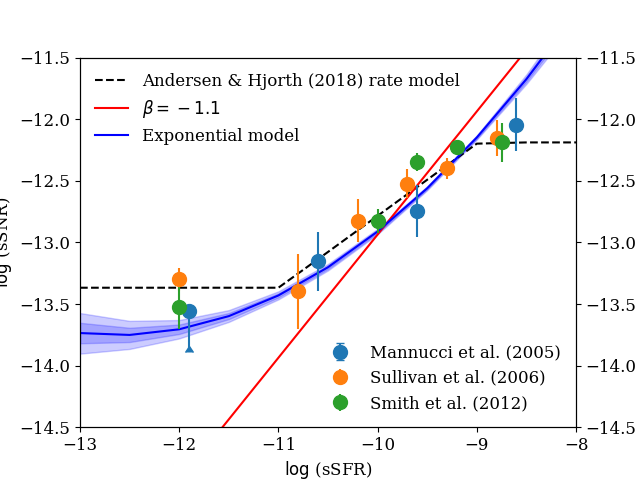
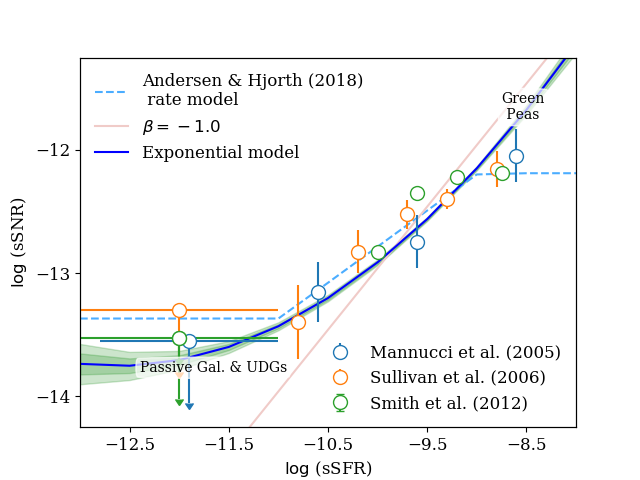
modified:   ../../sSFRvsSNR/figure_ssfr.png 	modified:   ../../sSFRvsSNR/plot_sfr_snr.py

diff --git a/sSFRvsSNR/plot_sfr_snr.py b/sSFRvsSNR/plot_sfr_snr.py
@@ -157,7 +157,8 @@ if __name__=='__main__':
     p_e = (2.20e-7, 0.084, 0.55e-11, 0.41e-9)
     pcov = diag(0.2*array(p_e)**2.)
     xx = arange(-13, -7.5, 0.5)
-    ax.plot(xx, log10(peices(10**xx, *p_n)), 'k--', label='Andersen & Hjorth (2018) rate model')
+    ax.plot(xx, log10(peices(10**xx, *p_n)), '--', color='#4BADFF',
+            label='Andersen & Hjorth (2018)\n rate model')
     ps = np.random.multivariate_normal(p_n, pcov, 10000)
     ysample = asarray([log10(peices(10**xx, *pi)) for pi in ps])
     idx = where(~isnan(ysample[:,0]))
@@ -170,19 +171,19 @@ if __name__=='__main__':
 
 
     ## t**(-1)
-    ## popt=(-4.77238208e-04,  9.90040272e-01, -3.01111121e+00)
-    ## pcov=array([[5.09893718e-08, 1.02627168e-06, 5.12290288e-06],
-    ##             [1.02627168e-06, 2.07089528e-05, 1.03610770e-04],
-    ##             [5.12290288e-06, 1.03610770e-04, 5.19460796e-04]])
+    popt=(-4.77238208e-04,  9.90040272e-01, -3.01111121e+00)
+    pcov=array([[5.09893718e-08, 1.02627168e-06, 5.12290288e-06],
+                [1.02627168e-06, 2.07089528e-05, 1.03610770e-04],
+                [5.12290288e-06, 1.03610770e-04, 5.19460796e-04]])
 
 
     ## t**(-1.1)
-    popt=( -1.94866195e-04,   9.95757343e-01,  -2.95934114e+00)
-    pcov=array([[  8.37865874e-08,   1.68638241e-06,   8.41799528e-06],
-                [  1.68638241e-06,   3.40291314e-05,   1.70253711e-04],
-                [  8.41799528e-06,   1.70253711e-04,   8.53578632e-04]])
+    ## popt=( -1.94866195e-04,   9.95757343e-01,  -2.95934114e+00)
+    ## pcov=array([[  8.37865874e-08,   1.68638241e-06,   8.41799528e-06],
+    ##             [  1.68638241e-06,   3.40291314e-05,   1.70253711e-04],
+    ##             [  8.41799528e-06,   1.70253711e-04,   8.53578632e-04]])
     perr = sqrt(diag(pcov))
-    ax.plot(xx, line_fn(xx, *popt), 'r-', label=r'$\beta=-1.1$')
+    ax.plot(xx, line_fn(xx, *popt), '-', color='#F0CBC8', label=r'$\beta=-1.0$')
     ps = np.random.multivariate_normal(popt, pcov, 10000)
     ysample = asarray([line_fn(xx, *pi) for pi in ps])
     lower = percentile(ysample, 15.9, axis=0)
@@ -205,10 +206,10 @@ if __name__=='__main__':
     ysample = asarray([line_fn(xx, *pi) for pi in ps])
     lower = percentile(ysample, 15.9, axis=0)
     upper = percentile(ysample, 84.1, axis=0)
-    ax.fill_between(xx, upper, lower, color='blue', alpha=0.2)
+    ax.fill_between(xx, upper, lower, color='green', alpha=0.2)
     lower = percentile(ysample, 2.5, axis=0)
     upper = percentile(ysample, 97.5, axis=0)
-    ax.fill_between(xx, upper, lower, color='blue', alpha=0.2)
+    ax.fill_between(xx, upper, lower, color='green', alpha=0.2)
 
     p0 = (1.,1.,0.0)
     popt, pcov = curve_fit(line_fn, out[:,0], out[:,1], p0=p0)
@@ -230,33 +231,64 @@ if __name__=='__main__':
 
     ax2 = ax.twinx()
     data = loadtxt('mannucci05.txt')
-    lolims = zeros((len(data)),)
-    lolims[0]=1.0
-    
-    ax2.errorbar(data[:,0], log10(data[:,1]),
-                 yerr=[log10((data[:,1]-data[:,2])/data[:,1]),log10((data[:,1]-data[:,2])/data[:,1])],
-                 lolims=lolims,
-                 fmt='o', ms=10, label='Mannucci et al. (2005)')
+    ax2.errorbar(data[1:,0], log10(data[1:,1]),
+                 yerr=log10((data[1:,1]-data[1:,2])/data[1:,1]),
+                 fmt='o', ms=10, mfc='white', label='Mannucci et al. (2005)')
+    ax2.errorbar(data[0,0], log10(data[0,1]),
+                 yerr=0.5,xerr=data[0,0]+11,
+                 uplims=0.5,
+                 fmt='o', ms=10, mfc='white', color='#2077B4')
 
 
 
     data = loadtxt('sullivan06.txt')
-    ax2.errorbar(data[:,0], log10(data[:,1]),
-                yerr=log10((data[:,1]-data[:,2])/data[:,1]),
-                fmt='o', ms=10, label='Sullivan et al. (2006)')
+    ax2.errorbar(data[1:,0], log10(data[1:,1]),
+                 yerr=-log10((data[1:,1]-data[1:,2])/data[1:,1]),
+                 fmt='o', ms=10, mfc='white', label='Sullivan et al. (2006)')
+    ax2.errorbar(data[0,0], log10(data[0,1]),
+                 yerr=0.5,xerr=data[0,0]+11,
+                 uplims=0.5,
+                 fmt='o', ms=10, mfc='white',color='#FF7F0E')
 
     data = loadtxt('smith12.txt')
+    lolims = zeros((len(data)),)
+    lolims[0]=1.0
     ax2.errorbar(data[:,0], log10(data[:,1]),
-                yerr=log10((data[:,1]-data[:,2])/data[:,1]),
-                fmt='o', ms=10, label='Smith et al. (2012)')
+                 yerr=[-log10((data[:,1]-data[:,2])/data[:,1]),log10((data[:,1]-data[:,2])/data[:,1])],
+                 uplims=lolims,
+                 fmt='o', ms=10, mfc='white', label='Smith et al. (2012)')
+    ax2.errorbar(data[0,0], log10(data[0,1]),
+                 yerr=0.5,xerr=data[0,0]+11,
+                 uplims=0.5,
+                 fmt='o', ms=10, mfc='white', color='#2CA02C')
+    
 
-    ax.set_xlim(-13.0, -8)
-    ax.set_ylim(-14.5, -11.5)
-    ax2.set_ylim(-14.5, -11.5)
+    ax.set_xticks(list(arange(-12.5, -7,1)))
+    ax.set_yticks(list(arange(-14, -10, 1)))
+    ax2.set_yticks([])
+    ax.set_xlim(-13, -8)
+    ax.set_ylim(-14.25, -11.25)
+    ax2.set_ylim(-14.25, -11.25)
 
     ax.legend(loc=2,frameon=False)
     ax2.legend(loc=4,frameon=False)
 
+    tx = arange(-13,-10, 1) 
+    #ax.fill_between(tx, log10(p_n[0]*p_n[2]**p_n[1]), -15, color='0.75', alpha=0.3)
+    tx = arange(-9,-7, 1) 
+    #ax.fill_between(tx, log10(p_n[0]*p_n[3]**p_n[1]), -11, color='0.75', alpha=0.3)
+
+
+    ax2.annotate('Passive Gal. & UDGs', xy=(-12.4,-13.8), xycoords='data',
+                rotation=0, size=10, zorder=100,
+                bbox=dict(boxstyle="round4", fc="w", ec='w', alpha=0.7)
+                )
+    
+    ax.annotate('Green\n Peas', (-8.75,-11.75), xycoords='data',
+                rotation=0, size=10, zorder=100,
+                bbox=dict(boxstyle="round4", fc="w", ec='w', alpha=0.7)
+                )
+                
 
     savefig('figure_ssfr.png')
     
